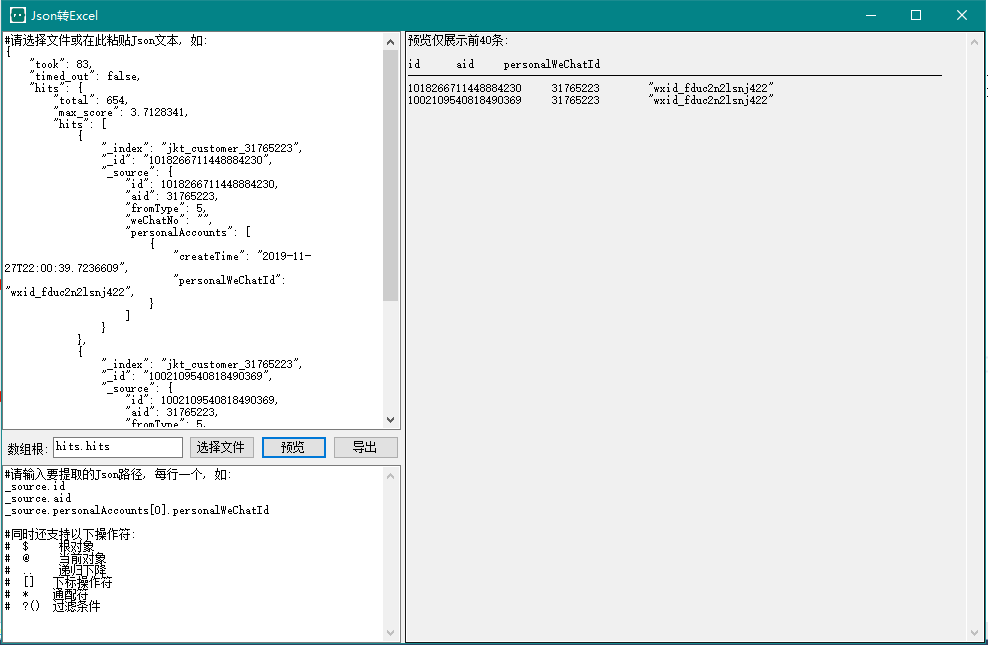
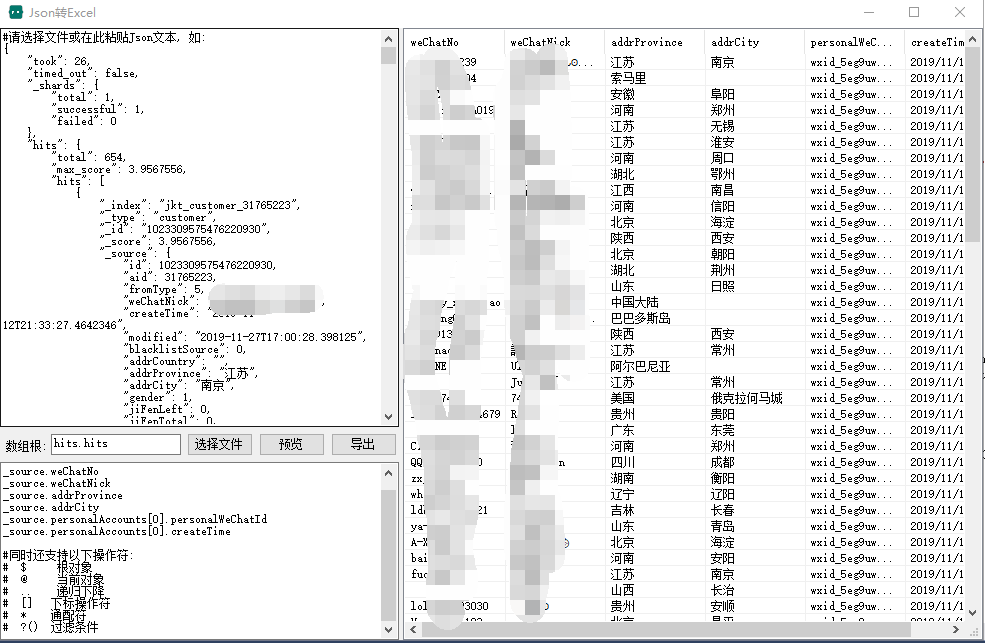
优化预览效果

diff --git a/JsonToExcel/MainFrm.cs b/JsonToExcel/MainFrm.cs
@@ -19,7 +19,7 @@ namespace JsonToExcel
         {
             InitializeComponent();
             txtContent.MaxLength = int.MaxValue;
-            txtResult.MaxLength = int.MaxValue;
+            //lstResult.Groups.Add(new ListViewGroup("预览仅展示前50条"));
         }
 
         private List<string> Result;
@@ -41,10 +41,10 @@ namespace JsonToExcel
                 var paths = txtJsonPath.Text.Split(new string[] { "\r\n" }, StringSplitOptions.RemoveEmptyEntries).Where(x => !x.StartsWith("#"));
                 var arr = string.IsNullOrWhiteSpace(txtRoot.Text) ? JArray.Parse(content) : JObject.Parse(content).SelectToken(txtRoot.Text);
 
-                lines.Add("\r\n" + string.Join(",", paths.Select(x => x.Substring(x.LastIndexOf('.') + 1))));
+                lines.Add(string.Join(",", paths.Select(x => x.Substring(x.LastIndexOf('.') + 1))));
                 foreach (var jtoken in arr)
                 {
-                    var items = paths.Count() == 0 ? jtoken.Select(x => x.ToString(Formatting.None)) : paths.Select(x => jtoken.SelectToken(x).ToString(Formatting.None));
+                    var items = paths.Count() == 0 ? jtoken.Select(x => x?.Value<object>()) : paths.Select(x => jtoken.SelectToken(x)?.Value<object>());
                     var line = string.Join(",", items);
                     lines.Add(line);
                 }
@@ -54,12 +54,20 @@ namespace JsonToExcel
                 MessageBox.Show("请检查数据格式:" + ex.Message);
                 return;
             }
-
-            var prelines = lines.Take(40).Select(x => x.Replace(",", "\r\t")).ToList();
-            prelines.Insert(1, "-----------------------------------------------------------------------------------------");
-            txtResult.Text = "预览仅展示前40条:\r\n";
-            txtResult.Text += string.Join("\r\n", prelines);
+            
+            lstResult.GridLines = true;
+            lstResult.Columns.Clear();
+            lstResult.Items.Clear();
+            lines[0].Split(',').ToList().ForEach(x => lstResult.Columns.Add(new ColumnHeader() { Text = x, Width = 100 }));
             Result = lines;
+
+            foreach (var item in lines.Skip(1).Take(100))
+            {
+                var split = item.Split(',').ToList();
+                var lstItem = new ListViewItem(split[0]) { Name = split[0] }; //, Group = lstResult.Groups[0]
+                split.Skip(1).ToList().ForEach(x => lstItem.SubItems.Add(x));
+                lstResult.Items.Add(lstItem);
+            }
         }
 
         private void btnFile_Click(object sender, EventArgs e)
@@ -75,6 +83,12 @@ namespace JsonToExcel
 
         private void btnExport_Click(object sender, EventArgs e)
         {
+            if (Result == null || Result.Count == 0)
+            {
+                MessageBox.Show("请先点击预览");
+                return;
+            }
+
             var dialog = new SaveFileDialog();
             dialog.InitialDirectory = "C://";
             dialog.Filter = "表格文件|*.csv";
@@ -85,6 +99,11 @@ namespace JsonToExcel
                 return;
 
             File.WriteAllLines(dialog.FileName, Result.ToArray());
+            var ans = MessageBox.Show("是否打开以保存的文件?", "保存成功", MessageBoxButtons.YesNo);
+            if (ans == DialogResult.Yes)
+            {
+                System.Diagnostics.Process.Start("explorer.exe", dialog.FileName);
+            }
         }
     }
 }

diff --git a/JsonToExcel/MainFrm.Designer.cs b/JsonToExcel/MainFrm.Designer.cs
@@ -38,7 +38,7 @@
             this.txtContent = new System.Windows.Forms.TextBox();
             this.btnFile = new System.Windows.Forms.Button();
             this.btnPreview = new System.Windows.Forms.Button();
-            this.txtResult = new System.Windows.Forms.TextBox();
+            this.lstResult = new System.Windows.Forms.ListView();
             ((System.ComponentModel.ISupportInitialize)(this.splitContainer1)).BeginInit();
             this.splitContainer1.Panel1.SuspendLayout();
             this.splitContainer1.Panel2.SuspendLayout();
@@ -60,7 +60,7 @@
             // 
             // splitContainer1.Panel2
             // 
-            this.splitContainer1.Panel2.Controls.Add(this.txtResult);
+            this.splitContainer1.Panel2.Controls.Add(this.lstResult);
             this.splitContainer1.Panel2MinSize = 500;
             this.splitContainer1.Size = new System.Drawing.Size(983, 612);
             this.splitContainer1.SplitterDistance = 399;
@@ -162,16 +162,16 @@
             this.btnPreview.UseVisualStyleBackColor = true;
             this.btnPreview.Click += new System.EventHandler(this.btnPreview_Click);
             // 
-            // txtResult
+            // lstResult
             // 
-            this.txtResult.BackColor = System.Drawing.SystemColors.Control;
-            this.txtResult.Dock = System.Windows.Forms.DockStyle.Fill;
-            this.txtResult.Location = new System.Drawing.Point(0, 0);
-            this.txtResult.Multiline = true;
-            this.txtResult.Name = "txtResult";
-            this.txtResult.ScrollBars = System.Windows.Forms.ScrollBars.Vertical;
-            this.txtResult.Size = new System.Drawing.Size(580, 612);
-            this.txtResult.TabIndex = 0;
+            this.lstResult.Dock = System.Windows.Forms.DockStyle.Fill;
+            this.lstResult.HideSelection = false;
+            this.lstResult.Location = new System.Drawing.Point(0, 0);
+            this.lstResult.Name = "lstResult";
+            this.lstResult.Size = new System.Drawing.Size(580, 612);
+            this.lstResult.TabIndex = 0;
+            this.lstResult.UseCompatibleStateImageBehavior = false;
+            this.lstResult.View = System.Windows.Forms.View.Details;
             // 
             // MainFrm
             // 
@@ -184,7 +184,6 @@
             this.Text = "Json转Excel";
             this.splitContainer1.Panel1.ResumeLayout(false);
             this.splitContainer1.Panel2.ResumeLayout(false);
-            this.splitContainer1.Panel2.PerformLayout();
             ((System.ComponentModel.ISupportInitialize)(this.splitContainer1)).EndInit();
             this.splitContainer1.ResumeLayout(false);
             this.panel1.ResumeLayout(false);
@@ -201,10 +200,10 @@
         private System.Windows.Forms.Button btnPreview;
         private System.Windows.Forms.TextBox txtJsonPath;
         private System.Windows.Forms.TextBox txtContent;
-        private System.Windows.Forms.TextBox txtResult;
         private System.Windows.Forms.Label label1;
         private System.Windows.Forms.TextBox txtRoot;
         private System.Windows.Forms.Button btnExport;
+        private System.Windows.Forms.ListView lstResult;
     }
 }
 
